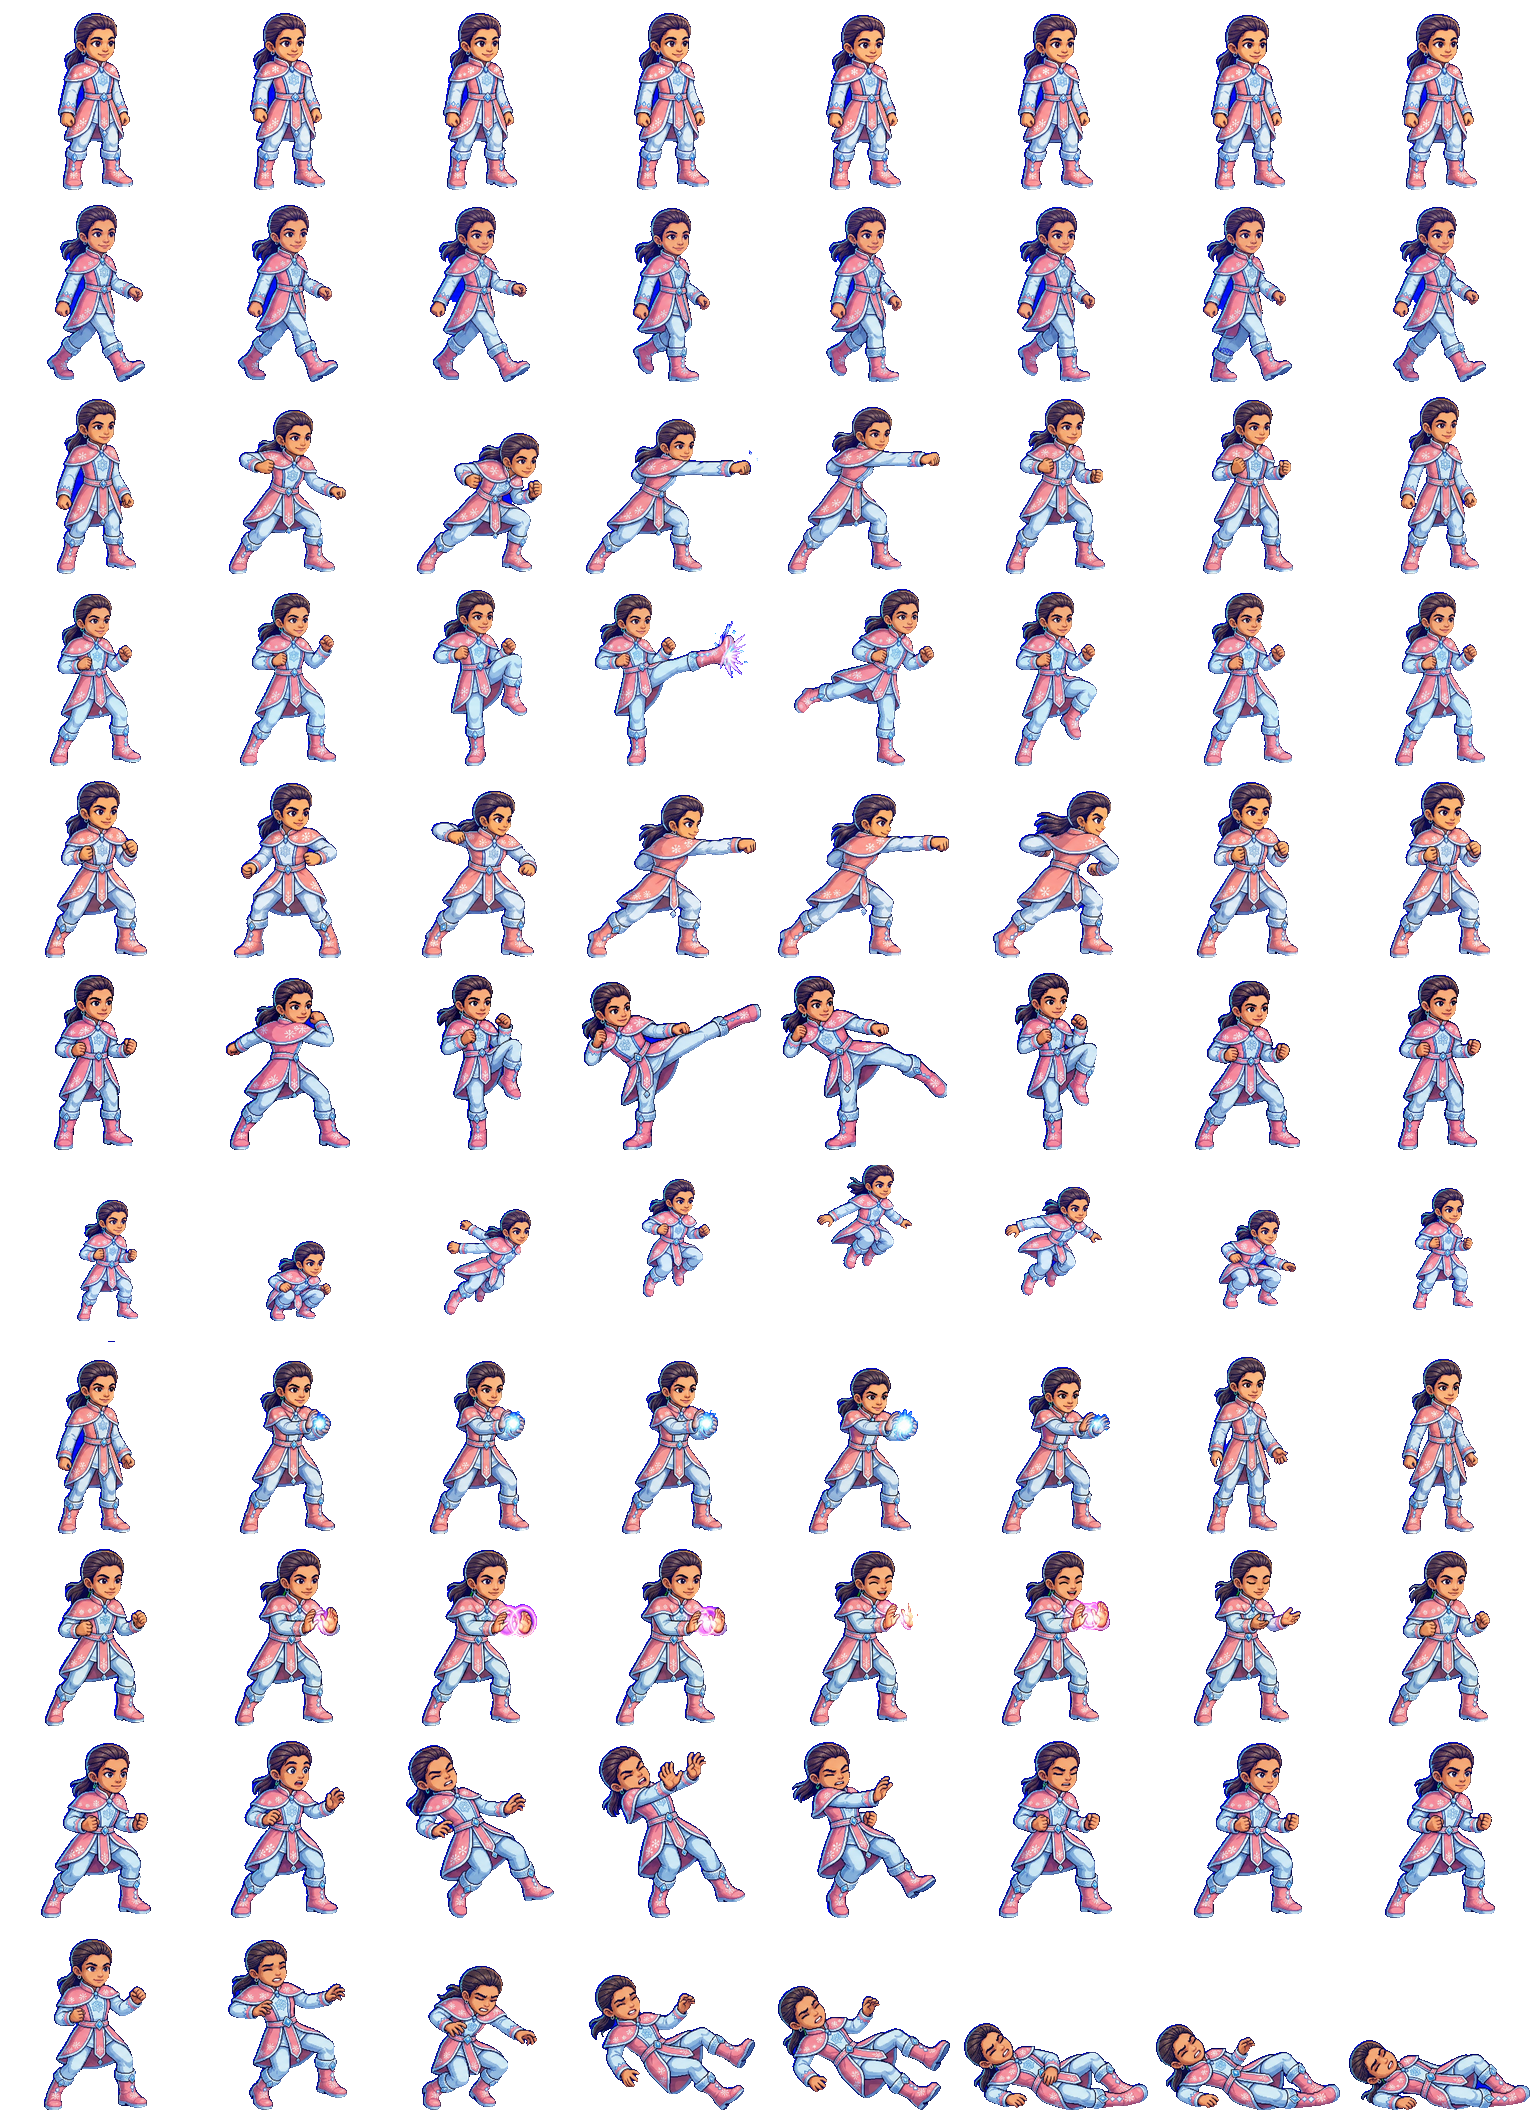
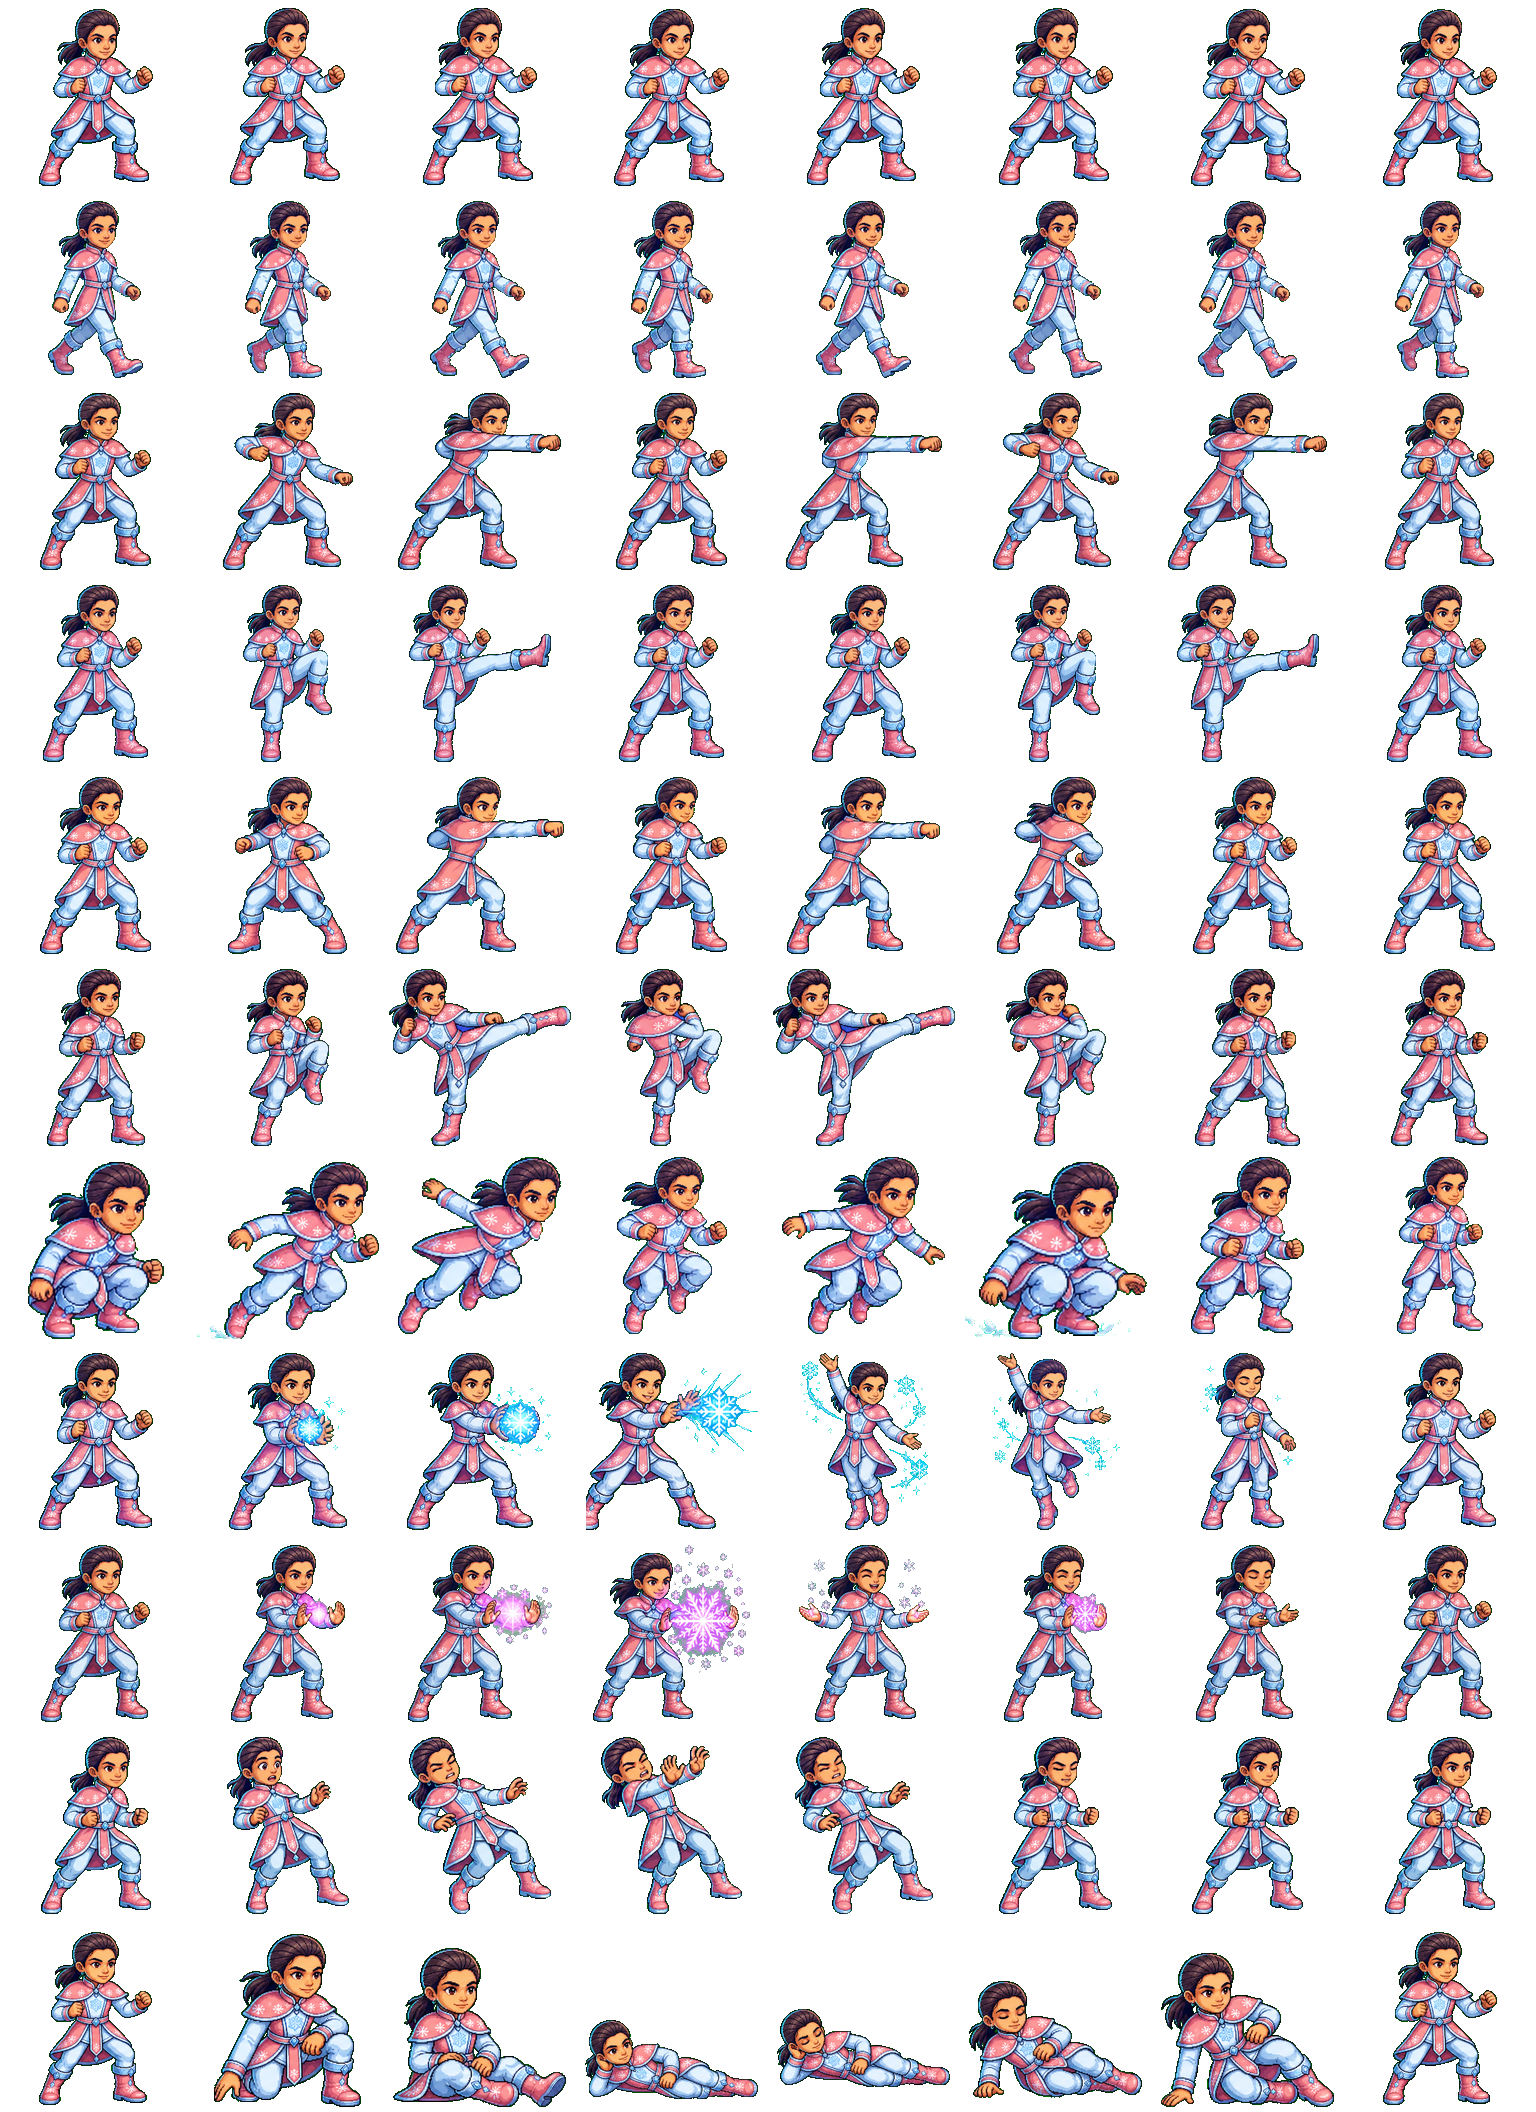
art: redraw Shaikha and Sulaiman animations

diff --git a/android/tools/build_two_character_redraw.py b/android/tools/build_two_character_redraw.py
@@ -21,8 +21,10 @@ SOURCE_V5 = ROOT / "assets/imagegen/android/hero-redraw-v5"
 ESSA_ACTIONS = ("idle", "walk", "punch", "kick", "heavy_punch",
                 "heavy_kick", "jump", "special", "link", "hurt", "knockdown")
 ADAM_ACTIONS = ESSA_ACTIONS
+SHAIKHA_ACTIONS = ESSA_ACTIONS
+SULAIMAN_ACTIONS = ESSA_ACTIONS
 STRIKER_ACTIONS = ("idle", "walk", "attack1", "attack2", "hurt", "knockdown")
-SCALE_LOCKED_HEROES = {"essa", "adam"}
+SCALE_LOCKED_HEROES = {"essa", "adam", "shaikha", "sulaiman"}
 
 # The generated heavy-kick sheet contains the right keys but not chronological
 # panel order. Reorder, never interpolate, to keep one readable action.
@@ -33,7 +35,7 @@ FRAME_REMAP = {
 def actor_source(name: str) -> Path:
     if name == "essa":
         return SOURCE_V4
-    if name == "adam":
+    if name in {"adam", "shaikha", "sulaiman"}:
         return SOURCE_V5
     return SOURCE_V3
 
@@ -126,6 +128,12 @@ def split_sheet(path: Path, columns: int, rows: int,
                     keep.update(component)
                 if len(component) > len(largest):
                     largest = component
+        if preserve_canvas and largest:
+            # A hero's authored energy trail may legitimately reach a cell
+            # edge while remaining connected to the body. Keep that largest
+            # component; thin dividers are smaller and residual flecks remain
+            # discarded. Without this, Sulaiman's beam removed its own actor.
+            keep.update(largest)
         if not keep:
             # Allow the caller's explicit remap to discard a generated panel
             # whose actor touches an edge, while keeping parsing deterministic.
@@ -373,7 +381,7 @@ def build_actor(name: str, actions: tuple[str, ...], source_columns: int,
                     # locked legacy atlas fills 92% of its cell, so Adam uses
                     # the same source-cell projection until Shaikha receives
                     # her own V5 pass. This preserves their true equal height.
-                    upright_fill = 0.92 if name == "adam" else 0.84
+                    upright_fill = 0.92 if name != "essa" else 0.84
                     cell = place_hero_frame(
                         frame, target_cell, action, adjust, upright_fill)
                 elif name == "striker" and action != "knockdown":
@@ -424,6 +432,19 @@ def main() -> None:
         (ASSETS / "runtime/heroes/adam_anim.png", (192, 192)),
         (ASSETS / "uhd/heroes/adam_anim.png", (384, 384)),
     ))
+    build_actor("shaikha", SHAIKHA_ACTIONS, 8, (
+        (ASSETS / "heroes/shaikha_anim.png", (192, 192)),
+        (ASSETS / "tv/heroes/shaikha_anim.png", (144, 144)),
+        (ASSETS / "runtime/heroes/shaikha_anim.png", (192, 192)),
+        (ASSETS / "uhd/heroes/shaikha_anim.png", (384, 384)),
+    ))
+    build_actor("sulaiman", SULAIMAN_ACTIONS, 8, (
+        (ASSETS / "heroes/sulaiman_anim.png", (192, 192)),
+        (ASSETS / "tv/heroes/sulaiman_anim.png", (144, 144)),
+        # Preserve the existing low-memory decoded footprint.
+        (ASSETS / "runtime/heroes/sulaiman_anim.png", (198, 198)),
+        (ASSETS / "uhd/heroes/sulaiman_anim.png", (384, 384)),
+    ))
     build_actor("striker", STRIKER_ACTIONS, 6, (
         (ASSETS / "enemies/striker_anim.png", (160, 192)),
         (ASSETS / "tv/enemies/striker_anim.png", (140, 168)),
@@ -441,7 +462,7 @@ def main() -> None:
     master.alpha_composite(neutral, ((512 - neutral.width) // 2, 480 - neutral.height))
     master.save(ASSETS / "enemies/striker.png", optimize=True, compress_level=9)
     refresh_manifest()
-    print("Built scale-locked redraws for Essa, Adam and Striker")
+    print("Built scale-locked redraws for all four heroes and Striker")
 
 
 if __name__ == "__main__":

diff --git a/android/tools/test_two_character_redraw_contract.py b/android/tools/test_two_character_redraw_contract.py
@@ -11,8 +11,6 @@ ASSETS = ROOT / "android/app/src/main/assets"
 GAME_VIEW = (ROOT / "android/app/src/main/java/com/familyforce/neonstreets/GameView.java").read_text()
 
 UNTOUCHED = {
[5 lines of base64/hex data omitted]
@@ -31,6 +29,12 @@ for relative, dimensions, columns, rows in (
     ("heroes/adam_anim.png", (1536, 2112), 8, 11),
     ("runtime/heroes/adam_anim.png", (1536, 2112), 8, 11),
     ("uhd/heroes/adam_anim.png", (3072, 4224), 8, 11),
+    ("heroes/shaikha_anim.png", (1536, 2112), 8, 11),
+    ("runtime/heroes/shaikha_anim.png", (1536, 2112), 8, 11),
+    ("uhd/heroes/shaikha_anim.png", (3072, 4224), 8, 11),
+    ("heroes/sulaiman_anim.png", (1536, 2112), 8, 11),
+    ("runtime/heroes/sulaiman_anim.png", (1584, 2178), 8, 11),
+    ("uhd/heroes/sulaiman_anim.png", (3072, 4224), 8, 11),
     ("enemies/striker_anim.png", (960, 1152), 6, 6),
     ("runtime/enemies/striker_anim.png", (1308, 1566), 6, 6),
     ("uhd/enemies/striker_anim.png", (1920, 2304), 6, 6),
@@ -67,6 +71,12 @@ for relative, cell_width, cell_height, maximum_height_delta in (
     ("heroes/adam_anim.png", 192, 192, 2),
     ("runtime/heroes/adam_anim.png", 192, 192, 2),
     ("uhd/heroes/adam_anim.png", 384, 384, 5),
+    ("heroes/shaikha_anim.png", 192, 192, 2),
+    ("runtime/heroes/shaikha_anim.png", 192, 192, 2),
+    ("uhd/heroes/shaikha_anim.png", 384, 384, 5),
+    ("heroes/sulaiman_anim.png", 192, 192, 2),
+    ("runtime/heroes/sulaiman_anim.png", 198, 198, 3),
+    ("uhd/heroes/sulaiman_anim.png", 384, 384, 5),
 ):
     atlas = Image.open(ASSETS / relative).convert("RGBA")
     walk_boxes = []
@@ -104,4 +114,4 @@ for relative, cell_width, cell_height, maximum_height_delta in (
     assert max(down_lengths) - min(down_lengths) <= maximum_height_delta, \
         (relative, "knockdown body-length pumping", down_lengths)
 
-print("Redraw contract: PASS (Essa + Adam scale lock, Striker, adaptive UHD)")
+print("Redraw contract: PASS (four scale-locked heroes, Striker, adaptive UHD)")

diff --git a/assets/imagegen/android/hero-redraw-v5/README_AR.md b/assets/imagegen/android/hero-redraw-v5/README_AR.md
@@ -3,7 +3,9 @@
 هذه الحزمة تطبق معيار الوضوح وثبات المقياس الذي نجح مع Essa V4 على الأبطال
 واحدًا تلو الآخر. لا تستخدم فيديو؛ كل حركة لوحة صور ثابتة من 8 إطارات.
 
-## Adam — معتمد
+## الشخصيات المعتمدة
+
+### Adam
 
 - الهوية: طفل بطل أخضر عضوي، شعر أسود مجعد، سروال بنفسجي ممزق.
 - الصدر أخضر خالٍ تمامًا من الحروف والشعارات.
@@ -13,5 +15,16 @@
 - عقد البناء: 4×2 لكل حركة، كامل الجسم، هوامش آمنة، ثم تطبيع تشريحي ثابت
   إلى 84% من ارتفاع الخلية للحالات القائمة، مع تثبيت خط الأرض ومسار القفز.
 
-Shaikha وSulaiman غير معتمدين بعد في APK ضمن هذه الدفعة؛ سيعالجان لاحقًا كل
-شخصية على حدة لمنع انتقال أي رمز أو تفصيل بين الشخصيات.
+### Shaikha
+
+- الهوية: بطلة ثلجية وردية، شعر داكن مربوط، زخارف ثلجية فقط بلا حروف.
+- 11 حركة × 8 إطارات منتجة في مسار مستقل عن بقية الشخصيات.
+
+### Sulaiman
+
+- الهوية: بطل أزرق وأحمر بعباءة، شعر أسود مجعد.
+- حرف `S` أسود واحد فقط في منتصف الصدر؛ لا حروف أو شعارات إضافية.
+- 11 حركة × 8 إطارات منتجة في مسار مستقل عن بقية الشخصيات.
+
+تستخدم الشخصيات الثلاث scale lock نفسه، مع تعبئة 92% لخلايا الأطفال وتطبيق
+نسب الطول الحقيقية في المحرك: Adam وShaikha بطول 108 سم، وSulaiman بطول 124 سم.
